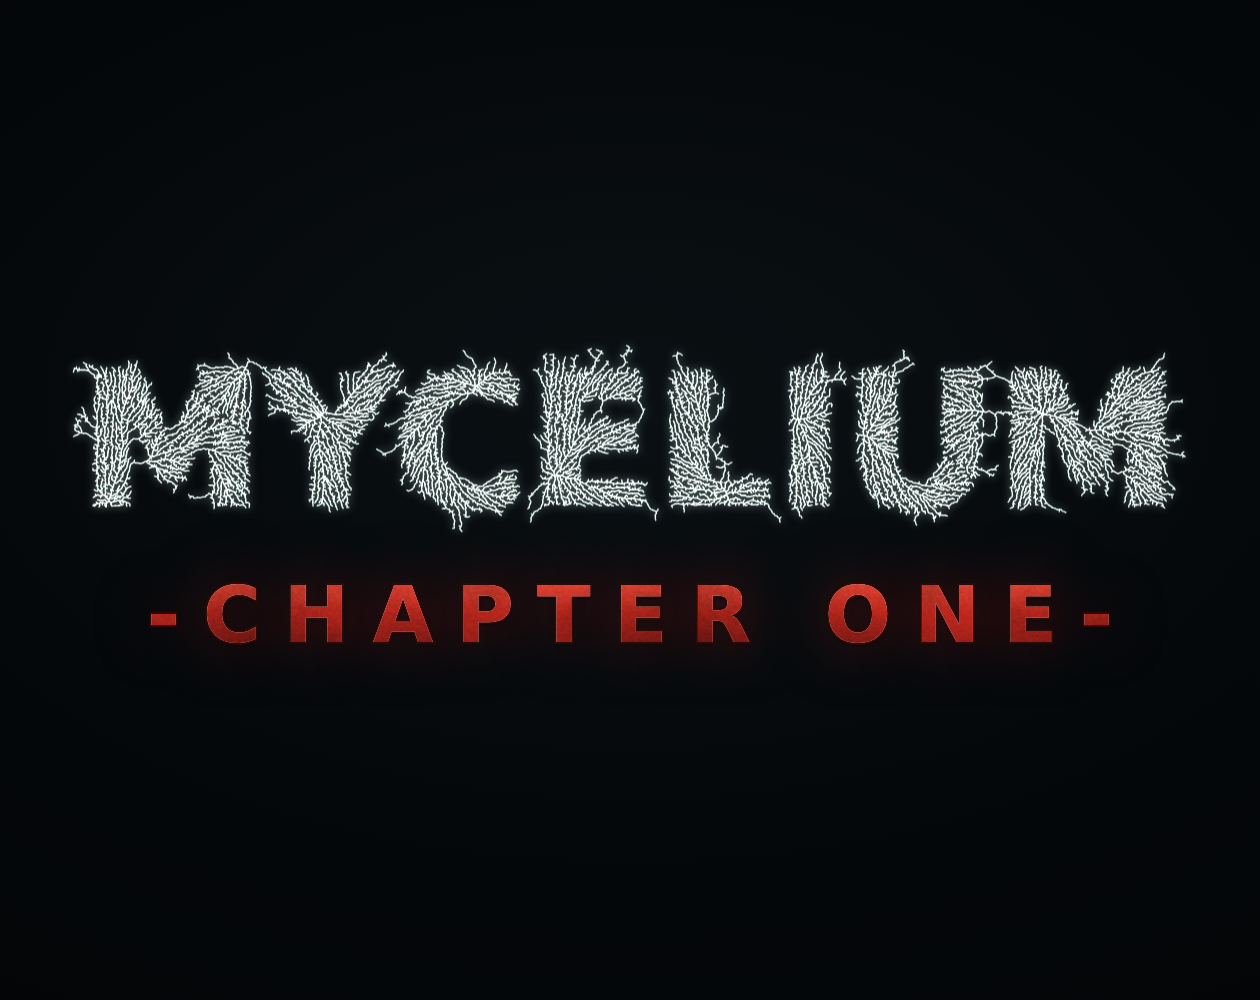
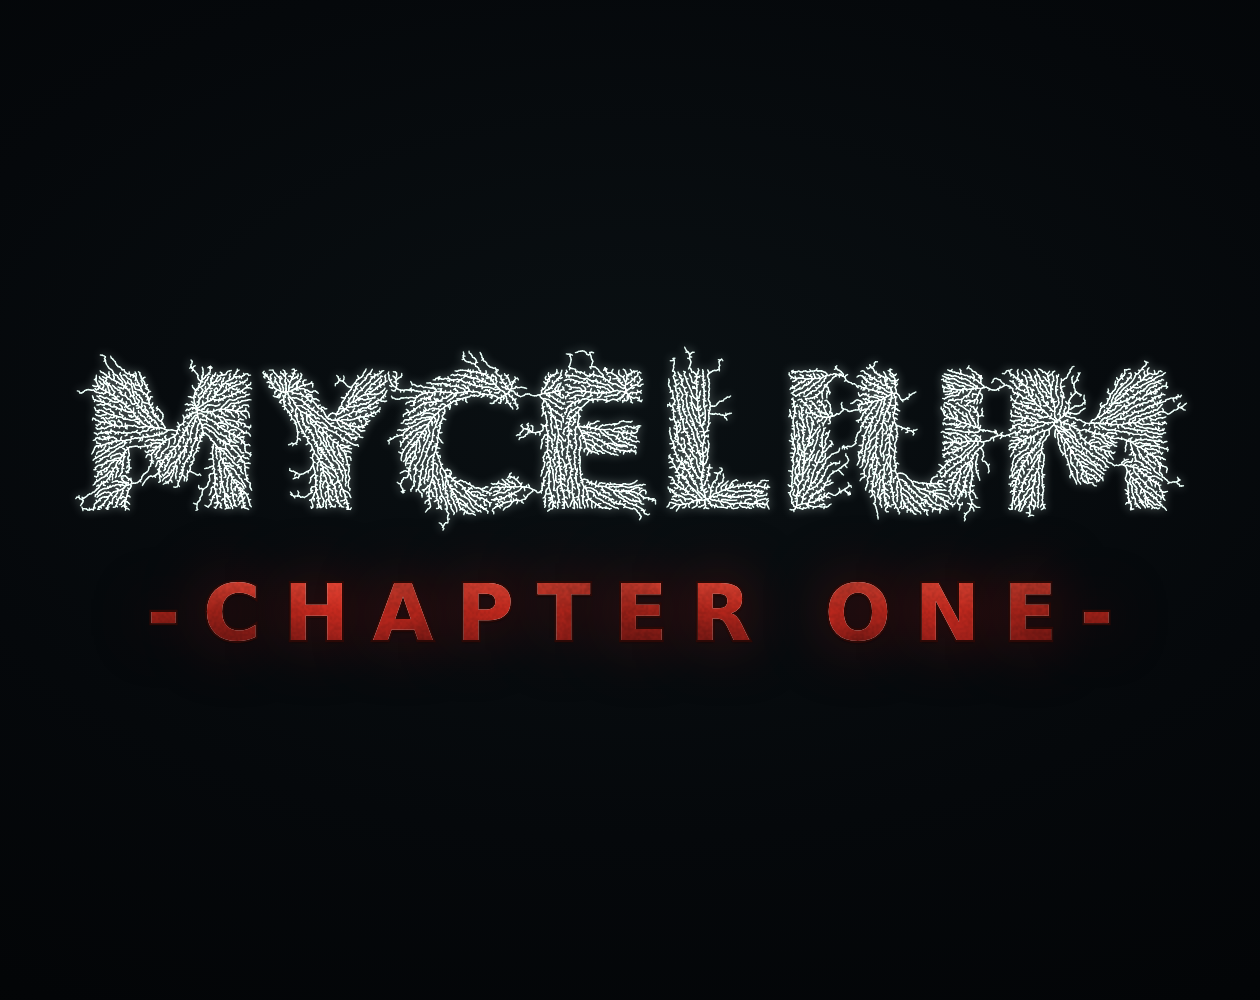
title card: open on two seconds of black, and halve the growth speed
The card is recorded as a loop, so opening on the first frame of growth gives
it no lead-in — on the wrap the word is already half drawn and the start of the
sequence is lost. play() now holds for LEAD_IN_MS before mounting the growth;
nothing is drawn during it (destroy() has removed the canvas and .lines is back
to opacity 0), so the frame is the background gradient alone. A replay during
the hold restarts the hold rather than stacking a second growth.

stepRate 2.4 -> 1.2 is the whole of the speed change: it is growth steps per
frame. The one thing that had to follow is the bloom's backstop, which is a
WALL-CLOCK cap on "the word has finished arriving" — at half the rate a fixed
1800ms fires mid-growth and the chapter line fades in over a half-drawn
wordmark, with nothing in the code to say why. GROWN_CAP_MS derives from the
rate instead, so a future retune cannot reintroduce that.

Measured: nothing on screen at 1.2s (brightest channel 19, the gradient's own
ceiling, against 245+ once ink lands), first canvas at 2045ms, word fully
formed in the export. Check is up to 16 assertions.

Claude-Session: https://claude.ai/code/session_0166G29fcerWBCZA8hQ2o5zX

diff --git a/docs/title-card.html b/docs/title-card.html
@@ -181,6 +181,11 @@
     let W = 0, H = 0, dpr = 1, ink = null, ictx = null;
     let titleSize = 0, cx = 0, cy = 0, g = null, raf = 0, stepAcc = 0, alive = true;
     const STEP_RATE = opts.stepRate || 2.4;
+    // The bloom's backstop, DERIVED from the rate rather than written down. It is a wall-clock cap
+    // on "the word has finished arriving", so halving the rate doubles how long that takes and a
+    // fixed 1800ms would fire the cap MID-GROWTH — the chapter line fading in over a half-drawn
+    // wordmark, with nothing in the code to say why. 1800ms is the figure at the original 2.4.
+    const GROWN_CAP_MS = 1800 * (2.4 / STEP_RATE);
 
     // An INTEGER grid key, not "gx,gy". nearestNode probes nine buckets per attractor per step;
     // with ~28,000 attractors that was ~590,000 string builds a frame. Unique while |gy| < 32768,
@@ -320,7 +325,7 @@
         if (!t0) t0 = performance.now();
         if (peak >= 20 && grew < Math.max(4, peak * 0.06)) { if (++quiet >= 10) fireGrown(); }
         else quiet = 0;
-        if (performance.now() - t0 > 1800) fireGrown();
+        if (performance.now() - t0 > GROWN_CAP_MS) fireGrown();
       }
       if (!g.done) raf = requestAnimationFrame(frame);
       else fireGrown();
@@ -353,15 +358,30 @@
   const hint = document.getElementById('hint');
   let title = null;
 
+  // A BEAT OF BLACK BEFORE ANYTHING HAPPENS. The card is recorded as a loop, so opening on the
+  // first frame of growth gives it no lead-in — on the wrap the word is already half drawn and the
+  // start of the sequence is lost. Two seconds of empty frame is what makes the loop read as
+  // beginning. Nothing is drawn during it: `destroy()` has removed the canvas and `.lines` is back
+  // to opacity 0, so #stage holds an empty box and the frame is the background gradient alone.
+  const LEAD_IN_MS = 2000;
+  let leadTimer = 0;
+
   function play() {
-    if (title) title.destroy();
+    if (title) { title.destroy(); title = null; }
+    clearTimeout(leadTimer);              // a replay during the hold restarts the hold
     lines.classList.remove('in');
     // Reflow between removing and re-adding the class, or the browser coalesces the two and the
     // fade never runs on a replay — the lines would simply be there.
     void lines.offsetWidth;
-    title = growMyceliumTitle(wordBox, {
+    leadTimer = setTimeout(() => { title = grow(); }, LEAD_IN_MS);
+  }
+
+  function grow() {
+    return growMyceliumTitle(wordBox, {
       word: 'MYCELIUM',
-      stepRate: 2.4,
+      // HALF THE ORIGINAL 2.4 — growth steps per frame, so this is the sequence's speed directly.
+      // `GROWN_CAP_MS` scales itself off it; nothing else needs touching.
+      stepRate: 1.2,
       // Close the gap BEFORE the fade starts, so the line arrives where it belongs rather than
       // sliding into place — `.lines` transitions opacity only, and a margin change is a jump.
       onGrown: () => { tightenToInk(); lines.classList.add('in'); },
